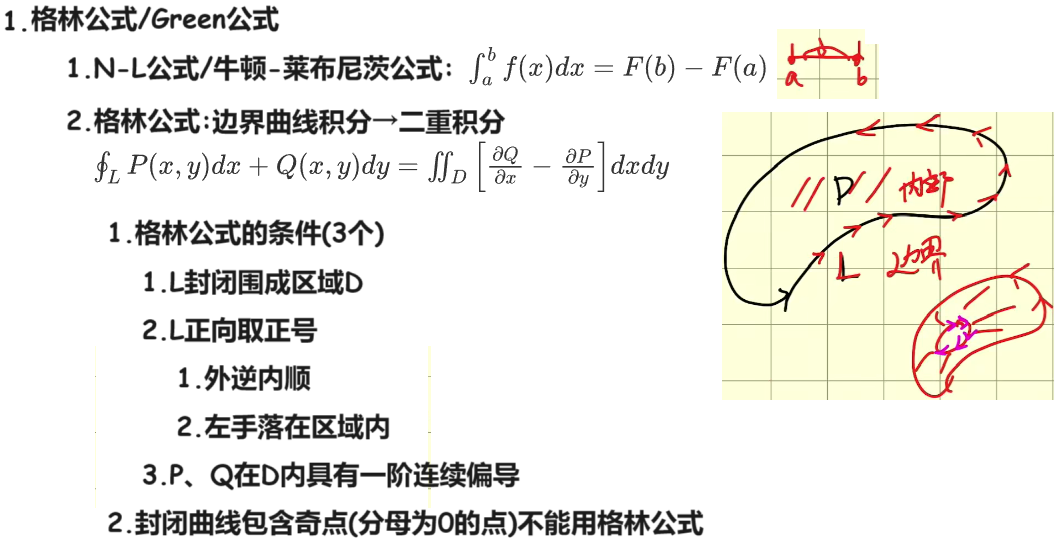
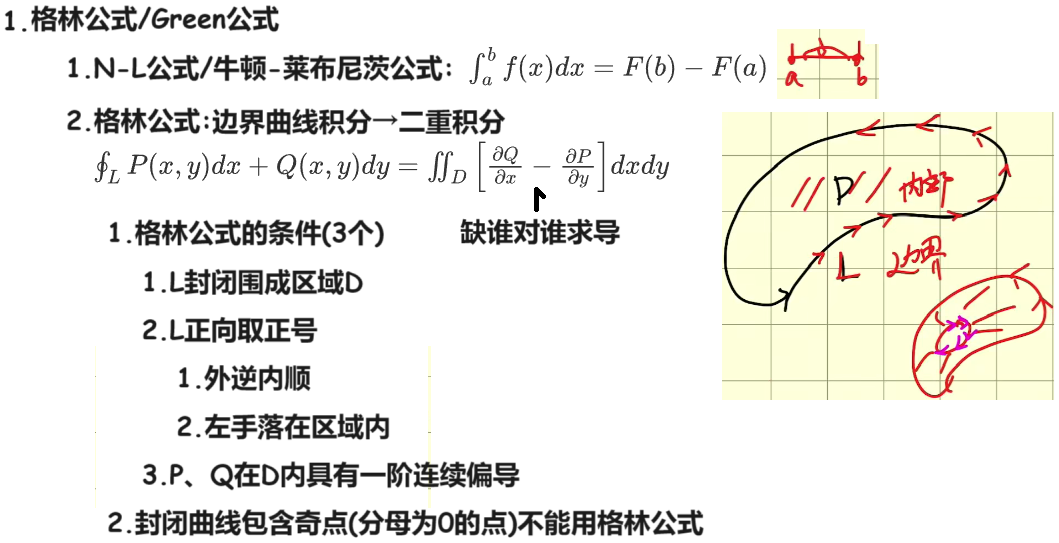
231121

Changed region(s): [[0.4363, 0.3536, 0.5921, 0.4715]]

diff --git a/05 每日一题/01 20数一/16 20T16【曲线积分 格林公式】231120/01 Note.md b/05 每日一题/01 20数一/16 20T16【曲线积分 格林公式】231120/01 Note.md
@@ -1,6 +1,6 @@
 # 背诵
 
-<img src="https://cvp.oss-cn-shanghai.aliyuncs.com/picgo/202311211937354.png" alt="image-20231121193737216" style="zoom:50%;" />
+<img src="https://cvp.oss-cn-shanghai.aliyuncs.com/picgo/202311212004120.png" alt="image-20231121200430925" style="zoom:50%;" />
 
 
 
@@ -22,5 +22,5 @@
 
 # 格林公式
 
-<img src="https://cvp.oss-cn-shanghai.aliyuncs.com/picgo/202311211937996.png" alt="image-20231121193720906" style="zoom:50%;" />
+<img src="https://cvp.oss-cn-shanghai.aliyuncs.com/picgo/202311212003152.png" alt="image-20231121200358031" style="zoom:50%;" />
 
